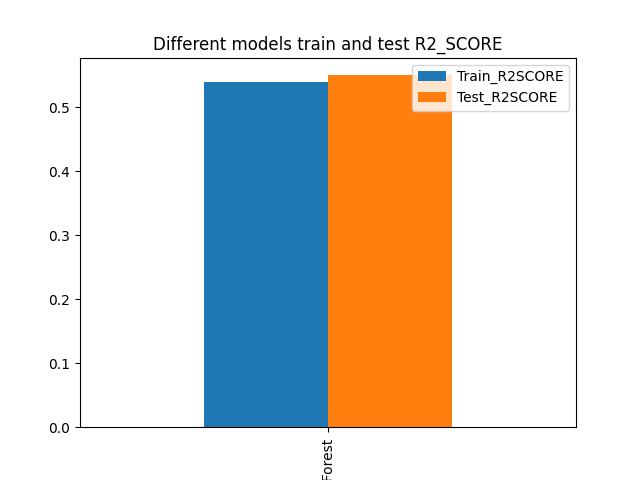
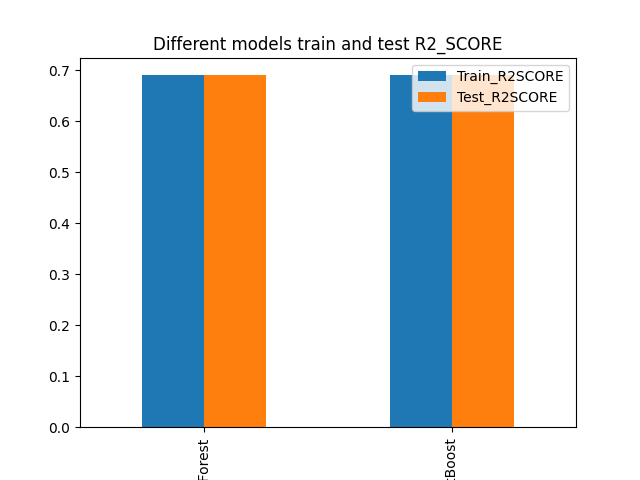
test

diff --git a/src/models/train_model.py b/src/models/train_model.py
@@ -38,8 +38,9 @@ class TrainModel:
         self.output_path = output_path
         self.home_dir = home_dir
         self.hyperopt_algo = tpe.suggest
-        self.hyperopt_max_eval = 2
+        self.hyperopt_max_eval = 15
         self.trials = Trials()
+        self.scoredic_list = []
 
         #logreg for logistic regression checking if model needs to be build is logistic regression
         if model == 'LinearRegression': 
@@ -59,7 +60,7 @@ class TrainModel:
         elif model == 'GradientBoost':
             self.model_instance = GradientBoostingRegressor
         
-        elif model == 'XtremeGradietBoost':
+        elif model == 'XtremeGradientBoost':
 
             self.model_instance = XGBRegressor
 
@@ -119,6 +120,7 @@ class TrainModel:
         #a column transformer to perform ohe on passed onehot encoding fatures and passing the remaining features as it is 
         self.oh_trf = ColumnTransformer([('encode_ohe', ohe, self.onehot_encode_feat)],remainder='passthrough')
 
+    
     def objective(self,params):
 
         '''This objective functon is used as a objective function for hyperopt objective function and also for fitting models 
@@ -126,7 +128,7 @@ class TrainModel:
         
         try:
         
-            #initialising a model
+               #initialising a model
             self.model = self.model_instance(random_state=self.seed,**params)
 
             #initialising a pipeline
@@ -138,6 +140,7 @@ class TrainModel:
             #evaluating train and test score
             self.train_score = model_eval(self.pipeline, self.x_train, self.y_train)
             self.test_score = model_eval(self.pipeline, self.x_test, self.y_test)
+            self.scoredic_list.append((self.train_score, self.test_score, params))
 
         except Exception as e:
 
@@ -148,35 +151,6 @@ class TrainModel:
 
             #logging for succes
             infologger.info('Pipeline has been fitted successfully')
-
-        try:
-        
-            with Live(self.output_path,save_dvc_exp=True) as live:
-
-                #live logging hyperparameters of model
-                live.log_params(params)
-
-                #live logging all different scoring metrics of train data 
-                live.log_metric('train data/RMSE',self.train_score['Root Mean Square Error'])
-                live.log_metric('train data/RMSPE',self.train_score['Root Mean Square Percentage Error'])
-                live.log_metric('train data/MAE',self.train_score['Mean Absolute Error'])
-                live.log_metric('train data/R2_SCORE',self.train_score['R2 Score'])
-
-                #live logging all different scoring metrics of test data
-                live.log_metric('test data/RMSE',self.test_score['Root Mean Square Error'])
-                live.log_metric('test data/RMSPE',self.test_score['Root Mean Square Percentage Error'])
-                live.log_metric('test data/MAE',self.test_score['Mean Absolute Error'])
-                live.log_metric('test data/R2_SCORE',self.test_score['R2 Score'])
-    
-        except Exception as e:
-
-            #logging for error
-            infologger.info(f'Live logging has been failed with error :  {e}')
-
-        else:
-
-            #logging for succes
-            infologger.info('Logging to dvc live has been successfully done')
 
         return {'loss': self.test_score['Root Mean Square Error'], 'params':params, 'status':STATUS_OK}
 
@@ -204,6 +178,41 @@ class TrainModel:
 
             #logging for succes
             infologger.info('Hyperparameter finetunning has been successfully done')
+
+    def livelog(self):
+
+        try:
+        
+            with Live(self.output_path,save_dvc_exp=True) as live:
+
+                for train_score, test_score , params in self.scoredic_list:
+
+                    #live logging hyperparameters of model
+                    live.log_params(params)
+
+                    #live logging all different scoring metrics of train data 
+                    live.log_metric('train data/RMSE',train_score['Root Mean Square Error'])
+                    live.log_metric('train data/RMSPE',train_score['Root Mean Square Percentage Error'])
+                    live.log_metric('train data/MAE',train_score['Mean Absolute Error'])
+                    live.log_metric('train data/R2_SCORE',train_score['R2 Score'])
+
+                    #live logging all different scoring metrics of test data
+                    live.log_metric('test data/RMSE',test_score['Root Mean Square Error'])
+                    live.log_metric('test data/RMSPE',test_score['Root Mean Square Percentage Error'])
+                    live.log_metric('test data/MAE',test_score['Mean Absolute Error'])
+                    live.log_metric('test data/R2_SCORE',test_score['R2 Score'])
+                    live.next_step()
+    
+        except Exception as e:
+
+            #logging for error
+            infologger.info(f'Live logging has been failed with error :  {e}')
+
+        else:
+
+            #logging for succes
+            infologger.info('Logging to dvc live has been successfully done')
+
     
     def write_data(self):
         
@@ -253,6 +262,7 @@ class TrainModel:
         self.feature()
         self.ohe()
         self.hyperopt_finetune()
+        self.livelog()
         infologger.info(f'Best hyperparameters of the models are : {self.best_hyperparams}')
         self.write_data()
 

diff --git a/src/models/hyperparameters.py b/src/models/hyperparameters.py
@@ -26,7 +26,6 @@ hyperparameters = {
             {
                 'n_estimators' : hp.choice('n_estimators', [15,20,30]), 
                 'max_depth': hp.choice('max_depth', [4,6,8]), 
-                'max_features': hp.choice('max_features', ['sqrt', 'log2', None]),
                 'subsample': hp.uniform('max_sample',0.6,0.8),
                 'learning_rate': hp.uniform('learning_rate',0.01,0.1),
                 'verbose': hp.choice('verbose', [1])
@@ -35,11 +34,10 @@ hyperparameters = {
             {
                 'n_estimators' : hp.choice('n_estimators', [15,20,30]), 
                 'max_depth': hp.choice('max_depth', [4,8,10,12]), 
-                'max_features': hp.choice('max_features', ['sqrt', 'log2', None]),
                 'subsample': hp.uniform('max_sample',0.6,0.8),
                 'learning_rate': hp.uniform('learning_rate',0.03,0.3),      
                 'gamma':hp.uniform('verbose',0.09,0.4),
-                'verbose': hp.choice('verbose', [1])
+                'verbosity': hp.choice('verbosity', [1])
             }
 
 }
